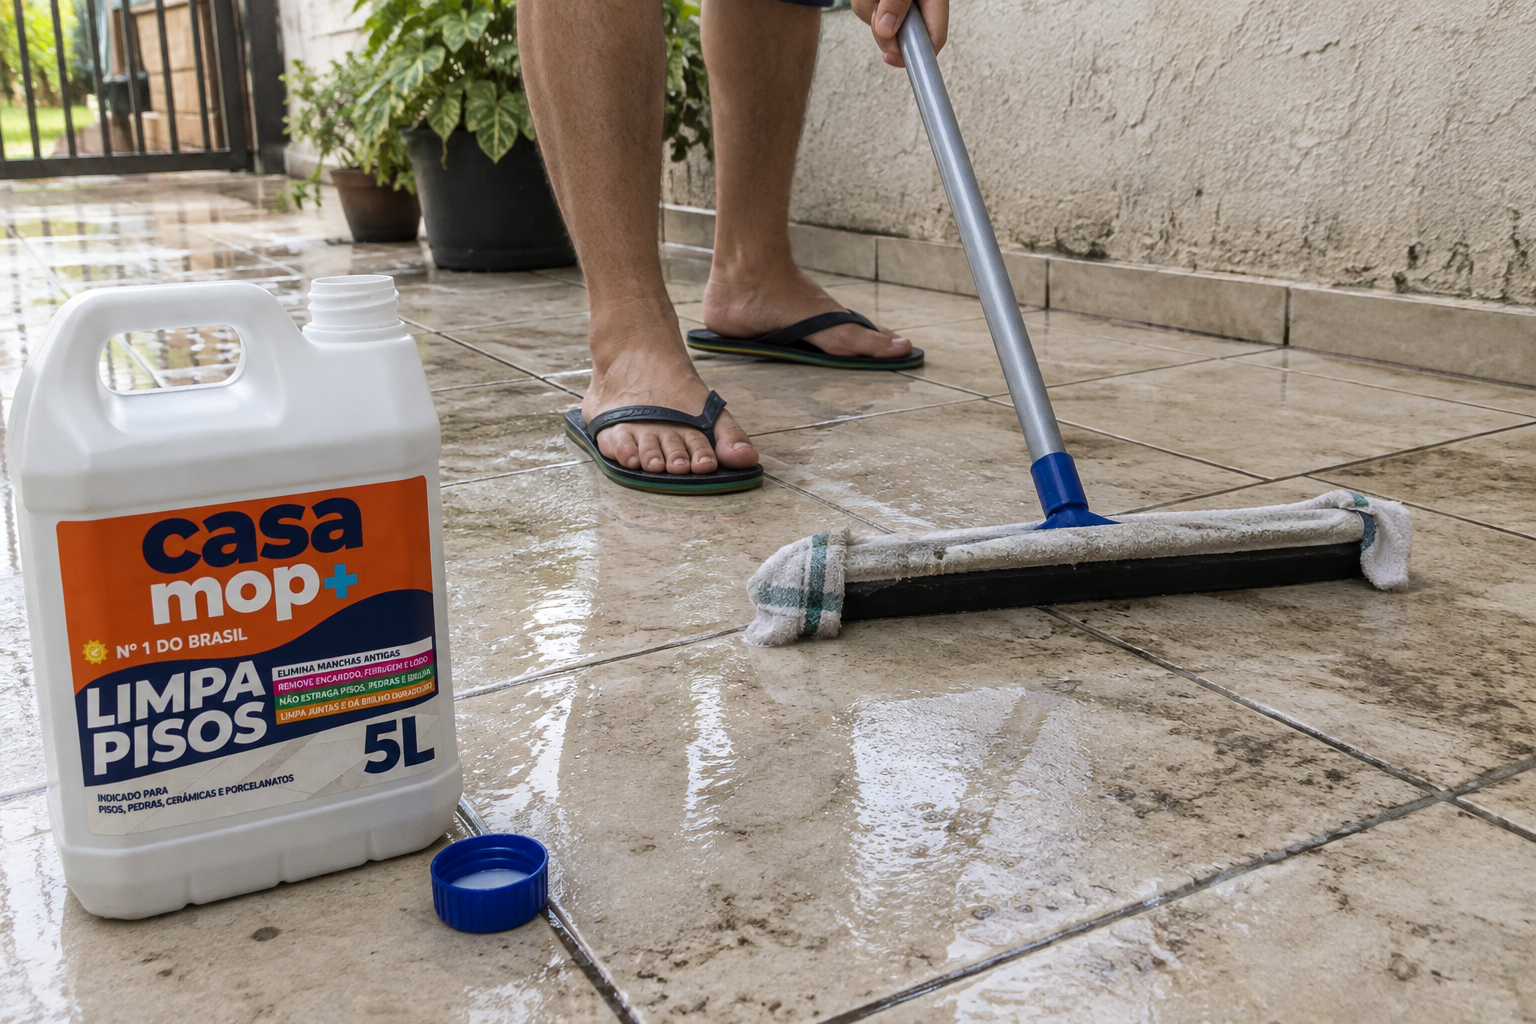
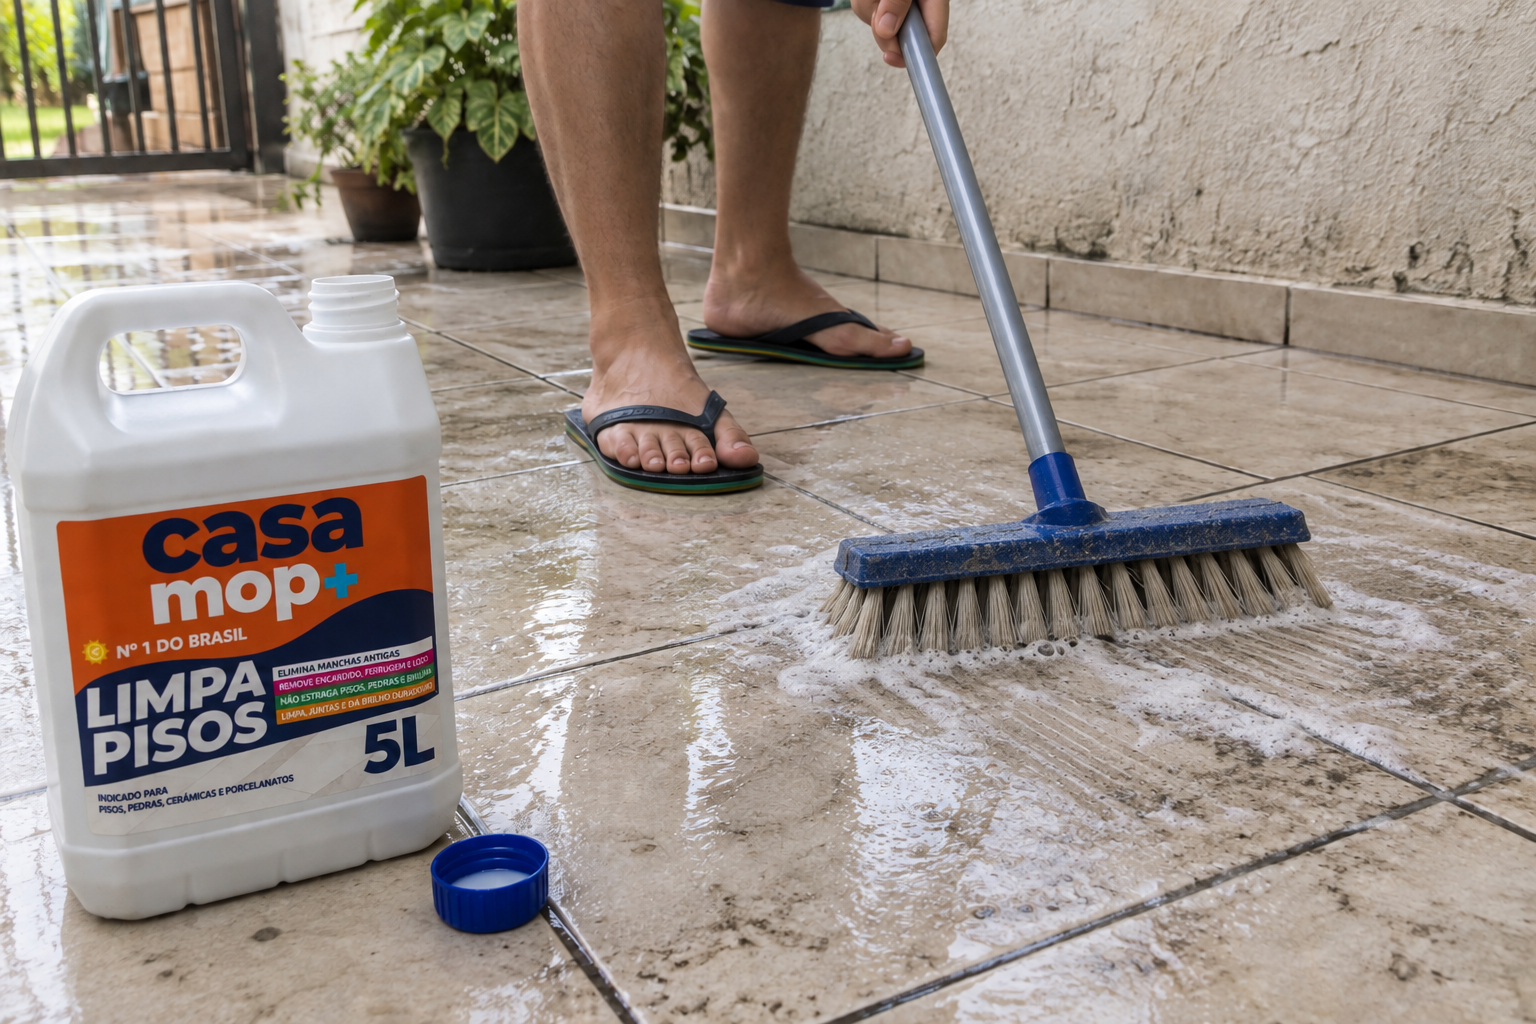
Como usar em 4 passos, com vassoura no passo 1

diff --git a/index.html b/index.html
@@ -9,7 +9,7 @@
   <link rel="preconnect" href="https://fonts.googleapis.com">
   <link rel="preconnect" href="https://fonts.gstatic.com" crossorigin>
   <link href="https://fonts.googleapis.com/css2?family=Plus+Jakarta+Sans:wght@400;500;600;700;800&family=Caveat:wght@600;700&display=swap" rel="stylesheet">
-  <link rel="stylesheet" href="css/styles.css?v=12">
+  <link rel="stylesheet" href="css/styles.css?v=14">
 </head>
 <body>
 
@@ -261,28 +261,34 @@
       <div class="container">
         <div class="section__head">
           <span class="eyebrow">Simples assim</span>
-          <h2>Como usar em 3 passos</h2>
+          <h2>Como usar em 4 passos</h2>
           <p>Sem horas abaixada esfregando o chão e sem precisar contratar empresa para restaurar o piso.</p>
         </div>
 
         <ol class="steps">
           <li class="step">
             <span class="step__n">01</span>
-            <div class="step__media"><img src="assets/img/passo-1-aplique.webp" alt="Aplicando Casa Mop+ no piso com rodo e pano" loading="lazy" width="900" height="600"></div>
-            <h3>Aplique</h3>
-            <p>Espalhe o Casa Mop+ sobre a área suja com um mop, rodo ou vassoura.</p>
+            <div class="step__media"><img src="assets/img/passo-1-aplique.webp?v=2" alt="Aplicando Casa Mop+ e esfregando o piso com vassoura" loading="lazy" width="900" height="600"></div>
+            <h3>Aplique e esfregue</h3>
+            <p>Espalhe o Casa Mop+ sobre a área suja e esfregue com uma vassoura.</p>
           </li>
           <li class="step">
             <span class="step__n">02</span>
             <div class="step__media"><img src="assets/img/passo-2-aguarde.webp" alt="Casa Mop+ agindo no piso por 2 minutos" loading="lazy" width="900" height="600"></div>
-            <h3>Aguarde 2 minutos</h3>
-            <p>Deixe o produto agir. Ele penetra na sujeira e solta o encardido sozinho.</p>
+            <h3>Deixe agir por 2 minutos</h3>
+            <p>O produto penetra na sujeira e solta o encardido sozinho.</p>
           </li>
           <li class="step">
             <span class="step__n">03</span>
-            <div class="step__media"><img src="assets/img/passo-3-enxague.webp" alt="Enxaguando o piso com mangueira após usar Casa Mop+" loading="lazy" width="900" height="600"></div>
-            <h3>Enxágue e pronto</h3>
-            <p>Passe uma escova leve, enxágue e veja a cor original do seu piso aparecer.</p>
+            <div class="step__media"><img src="assets/img/passo-3-esfregue.webp?v=2" alt="Esfregando o piso de novo para remover a sujeira solta" loading="lazy" width="900" height="600"></div>
+            <h3>Esfregue de novo</h3>
+            <p>Passe a vassoura novamente para remover o excesso de sujeira que se soltou.</p>
+          </li>
+          <li class="step">
+            <span class="step__n">04</span>
+            <div class="step__media"><img src="assets/img/passo-4-enxague.webp?v=2" alt="Enxaguando o piso com mangueira após usar Casa Mop+" loading="lazy" width="900" height="600"></div>
+            <h3>Enxágue com água abundante</h3>
+            <p>Enxágue bem e veja a cor original do seu piso aparecer.</p>
           </li>
         </ol>
       </div>
@@ -489,7 +495,7 @@
     <svg viewBox="0 0 24 24"><path d="M12 2a10 10 0 0 0-8.6 15.1L2 22l5-1.3A10 10 0 1 0 12 2zm5.3 14.2c-.2.6-1.3 1.2-1.8 1.2-.5.1-1 .2-3.3-.7-2.8-1.1-4.5-3.9-4.7-4.1-.1-.2-1.1-1.5-1.1-2.8s.7-2 1-2.3c.2-.3.5-.3.7-.3h.5c.2 0 .4 0 .6.5l.8 2c.1.2.1.4 0 .5l-.4.6-.4.4c-.1.2-.3.3-.1.6.2.3.8 1.3 1.7 2.1 1.2 1 2.1 1.3 2.4 1.5.3.1.5.1.6-.1l.9-1c.2-.3.4-.2.7-.1l1.9.9c.3.1.5.2.5.3.1.1.1.6-.1 1.2z"/></svg>
   </a>
 
-  <script src="js/config.js?v=12"></script>
-  <script src="js/main.js?v=12"></script>
+  <script src="js/config.js?v=14"></script>
+  <script src="js/main.js?v=14"></script>
 </body>
 </html>

diff --git a/css/styles.css b/css/styles.css
@@ -254,14 +254,14 @@ p { margin: 0 0 1em; }
 
 /* ===== Como usar ===== */
 .how { background: var(--bg-soft); }
-.steps { list-style: none; margin: 0; padding: 0; display: grid; grid-template-columns: repeat(3, 1fr); gap: 24px; counter-reset: s; }
+.steps { list-style: none; margin: 0; padding: 0; display: grid; grid-template-columns: repeat(4, 1fr); gap: 20px; }
 .step { position: relative; background: #fff; border-radius: 26px; padding: 14px 14px 26px; box-shadow: var(--shadow-sm); }
 .step__n { position: absolute; top: 26px; left: 26px; z-index: 2; background: var(--orange); color: #fff; font-weight: 800; padding: 4px 12px; border-radius: 999px; font-size: .85rem; }
 .step__media { aspect-ratio: 3/2; border-radius: 18px; overflow: hidden; margin-bottom: 20px; }
 .step__media img { width: 100%; height: 100%; object-fit: cover; }
-.step h3 { padding: 0 12px; font-size: 1.3rem; }
-.step p { padding: 0 12px; margin: 0; color: var(--muted); }
-.step:not(:last-child)::after { content: ""; position: absolute; right: -20px; top: 38%; width: 16px; height: 16px; border-top: 3px solid var(--orange); border-right: 3px solid var(--orange); transform: rotate(45deg); z-index: 2; }
+.step h3 { padding: 0 10px; font-size: 1.15rem; }
+.step p { padding: 0 10px; margin: 0; color: var(--muted); font-size: .95rem; }
+.step:not(:last-child)::after { content: ""; position: absolute; right: -18px; top: 38%; width: 16px; height: 16px; border-top: 3px solid var(--orange); border-right: 3px solid var(--orange); transform: rotate(45deg); z-index: 2; }
 
 /* ===== Onde usar ===== */
 .where__grid { display: grid; grid-template-columns: repeat(4, 1fr); grid-auto-rows: 220px; gap: 16px; }
@@ -364,6 +364,11 @@ p { margin: 0 0 1em; }
   .stat { right: 16px; }
 }
 
+@media (max-width: 1080px) and (min-width: 961px) {
+  .steps { grid-template-columns: repeat(2, 1fr); }
+  .step::after { display: none; }
+}
+
 @media (max-width: 960px) {
   .burger { display: flex; }
   .header__cta { display: none; }
@@ -383,7 +388,7 @@ p { margin: 0 0 1em; }
   .offer__media { position: relative; top: 0; max-width: 520px; width: 100%; margin: 0 auto; }
   .benefits__media { max-width: 520px; width: 100%; margin: 0 auto; }
   .steps { grid-template-columns: 1fr; max-width: 520px; margin: 0 auto; }
-  .step:not(:last-child)::after { right: 50%; top: auto; bottom: -19px; transform: translateX(50%) rotate(135deg); }
+  .step:not(:last-child)::after { display: block; right: 50%; top: auto; bottom: -19px; transform: translateX(50%) rotate(135deg); }
   .where__grid { grid-template-columns: repeat(2, 1fr); grid-auto-rows: 180px; }
   .cta__inner { grid-template-columns: 1fr; padding: 48px 32px; }
   .ph--cta { max-width: 320px; }
